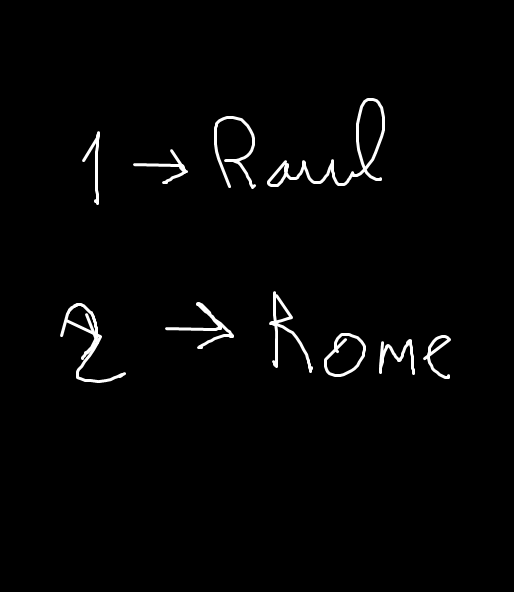
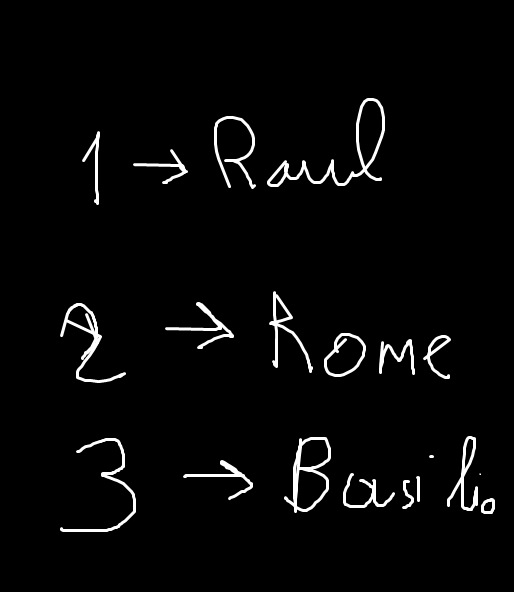
Añadido Pantalla Basilio

diff --git a/Dungeon/core/src/main/java/com/dungeonsa/Pantallas/PantallaBasilio.java b/Dungeon/core/src/main/java/com/dungeonsa/Pantallas/PantallaBasilio.java
@@ -1,0 +1,163 @@
+package com.dungeonsa.Pantallas;
+
+import com.badlogic.gdx.Gdx;
+        import com.badlogic.gdx.Input;
+        import com.badlogic.gdx.math.MathUtils;
+        import com.dungeonsa.Entorno.Muro;
+        import com.badlogic.gdx.graphics.g2d.TextureAtlas;
+        import com.badlogic.gdx.maps.MapProperties;
+        import com.badlogic.gdx.maps.tiled.TiledMap;
+        import com.badlogic.gdx.maps.tiled.TiledMapTileLayer;
+        import com.badlogic.gdx.maps.tiled.renderers.OrthogonalTiledMapRenderer;
+        import com.badlogic.gdx.math.Vector2;
+        import com.badlogic.gdx.physics.box2d.Body;
+        import com.badlogic.gdx.physics.box2d.Box2DDebugRenderer;
+        import com.dungeonsa.Entorno.Muro1;
+        import com.dungeonsa.Personajes.Jugador;
+        import com.badlogic.gdx.physics.box2d.World;
+
+        import java.util.ArrayList;
+
+public class PantallaBasilio extends Pantalla {
+    public static final String TIPO="tipo";
+    public static final String JUGADOR="mainchar";
+    public static final String MURO="nada";
+    public static final int LADO_LOSA=16;
+    private TiledMap mapa;
+    private TiledMapTileLayer capa;
+    float relacionAspecto;
+    private OrthogonalTiledMapRenderer renderizador;
+
+    private ArrayList<Muro> listaMuros;
+
+    public static final Vector2 PASO_ARRIBA=new Vector2(0,.1f);
+    public static final Vector2 PASO_ABAJO=new Vector2(0,-.1f);
+    public static final Vector2 PASO_DERECHA=new Vector2(.1f,0);
+    public static final Vector2 PASO_IZQUIERDA=new Vector2(-.1f,0);
+    public static float VEL_MAX=2.0f;
+    private Jugador jugador=null;
+    private Body cuerpoJugador=null;
+    private Vector2 posicionJugador=null;
+
+    TextureAtlas atlas;
+    //    Fisicas
+    private World mundo;
+    private Box2DDebugRenderer depurador;
+
+
+    public PantallaBasilio() {
+        super();
+        atlas=am.get("Graficos.atlas");
+        mapa=am.get("mapadev.tmx");
+        renderizador=new OrthogonalTiledMapRenderer(mapa,1.0f/LADO_LOSA);
+        relacionAspecto= (float)juego.getAncho()/juego.getAlto();
+        camara.setToOrtho(false,10*relacionAspecto,10);
+
+        //Físicas
+        mundo=new World(new Vector2(0,0),true);
+        depurador=new Box2DDebugRenderer();
+        //Procesa la capa 2 del mapa, la que tiene los "objetos"
+        listaMuros=new ArrayList<>();
+        capa=(TiledMapTileLayer)mapa.getLayers().get(2);
+        for(int x=0;x<capa.getWidth();x++){
+            for(int y=0;y<capa.getHeight();y++){
+                TiledMapTileLayer.Cell celda=capa.getCell(x,y);
+                if(celda==null) continue;
+                MapProperties propiedades=celda.getTile().getProperties();
+                if(propiedades.containsKey(TIPO)){
+                    switch((String)propiedades.get(TIPO)){
+                        case JUGADOR:
+                            jugador=new Jugador(mundo,atlas,x,y);
+                            cuerpoJugador=jugador.getCuerpo();
+                            break;
+                        case MURO:
+                            listaMuros.add(new Muro1(mundo,atlas,x,y));
+                            break;
+                    }
+                }
+            }
+        }
+    }
+
+    @Override
+    public void leerEntrada(float delta) {
+        posicionJugador=cuerpoJugador.getPosition();
+        if(!Gdx.input.isKeyPressed(Input.Keys.A) &&
+                !Gdx.input.isKeyPressed(Input.Keys.W) &&
+                !Gdx.input.isKeyPressed(Input.Keys.S) &&
+                !Gdx.input.isKeyPressed(Input.Keys.D)){
+            cuerpoJugador.setLinearVelocity(0f,0f);
+        }
+        if(Gdx.input.isKeyPressed(Input.Keys.A) &&
+                cuerpoJugador.getLinearVelocity().x<VEL_MAX){
+            cuerpoJugador.applyLinearImpulse(PASO_IZQUIERDA,posicionJugador,true);
+        }if(Gdx.input.isKeyPressed(Input.Keys.W) &&
+                cuerpoJugador.getLinearVelocity().x<VEL_MAX){
+            cuerpoJugador.applyLinearImpulse(PASO_ARRIBA,posicionJugador,true);
+        }if(Gdx.input.isKeyPressed(Input.Keys.S) &&
+                cuerpoJugador.getLinearVelocity().x<VEL_MAX){
+            cuerpoJugador.applyLinearImpulse(PASO_ABAJO,posicionJugador,true);
+        }if(Gdx.input.isKeyPressed(Input.Keys.D) &&
+                cuerpoJugador.getLinearVelocity().x<VEL_MAX){
+            cuerpoJugador.applyLinearImpulse(PASO_DERECHA,posicionJugador,true);
+        }
+    }
+
+    @Override
+    public void actualizar(float delta) {
+        renderizador.setView(camara);
+
+        jugador.actualizar(delta);
+
+        //La camara sigue al jugador
+        camara.position.x= MathUtils.clamp(cuerpoJugador.getPosition().x,5*relacionAspecto,capa.getWidth()-5*relacionAspecto);
+        camara.position.y=MathUtils.clamp(cuerpoJugador.getPosition().y,5,capa.getHeight()-5);
+        camara.update();
+    }
+
+    @Override
+    public void dibujar(float delta) {
+        //render basico para capas de fondo
+        int[] capas={0,1};
+        renderizador.render(capas);
+
+        sb.setProjectionMatrix(camara.combined);
+        sb.begin();
+        for(Muro b:listaMuros) b.draw(sb);
+        jugador.draw(sb);
+        sb.end();
+
+        depurador.render(mundo, camara.combined); //dibuja las lineas del debuger
+        mundo.step(.02f,6,2);
+    }
+
+    @Override
+    public void show() {
+
+    }
+
+    @Override
+    public void resize(int width, int height) {
+
+    }
+
+    @Override
+    public void pause() {
+
+    }
+
+    @Override
+    public void resume() {
+
+    }
+
+    @Override
+    public void hide() {
+
+    }
+
+    @Override
+    public void dispose() {
+
+    }
+}

diff --git a/Dungeon/core/src/main/java/com/dungeonsa/Pantallas/PantallaMenuPrincipal.java b/Dungeon/core/src/main/java/com/dungeonsa/Pantallas/PantallaMenuPrincipal.java
@@ -25,6 +25,8 @@ public class PantallaMenuPrincipal extends Pantalla{
 			juego.cambiarPantalla(this,new Pantalladev());
 		}else if(Gdx.input.isKeyJustPressed(Input.Keys.NUM_2)){
 			juego.cambiarPantalla(this,new PantallaRome());
+		}else if(Gdx.input.isKeyJustPressed(Input.Keys.NUM_3)){
+		juego.cambiarPantalla(this,new PantallaBasilio());
 		}
 	}
 	@Override
